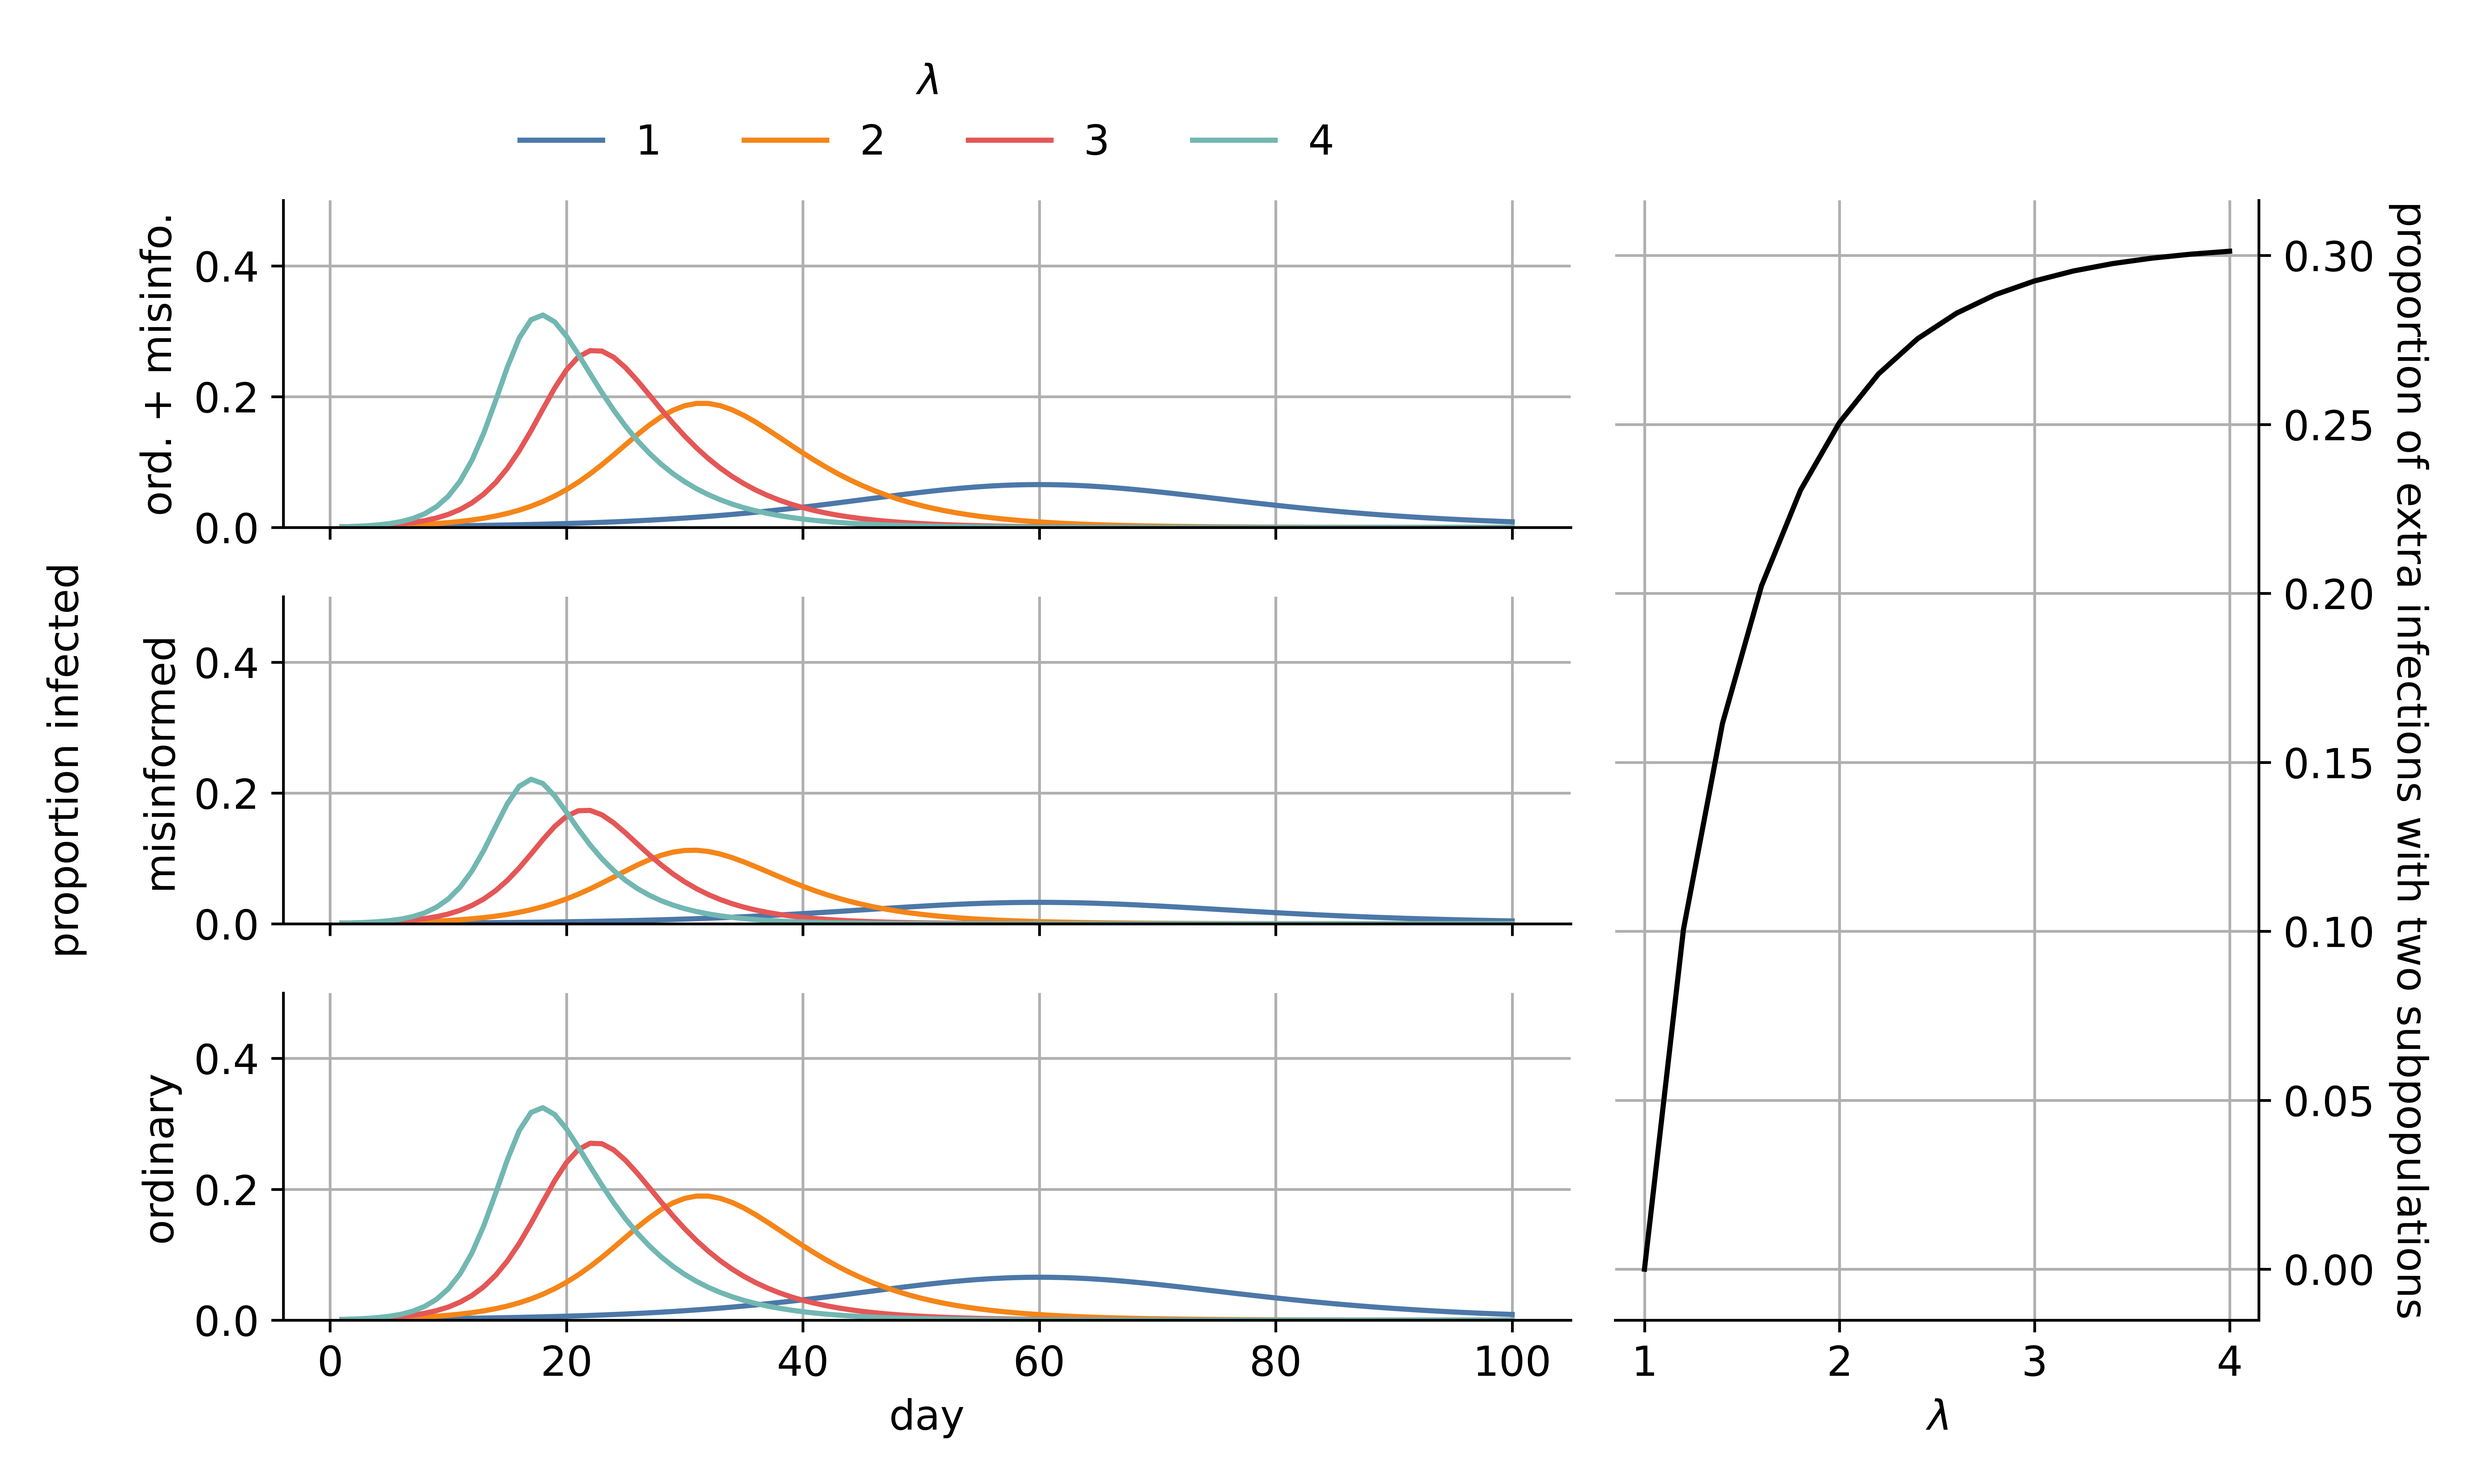
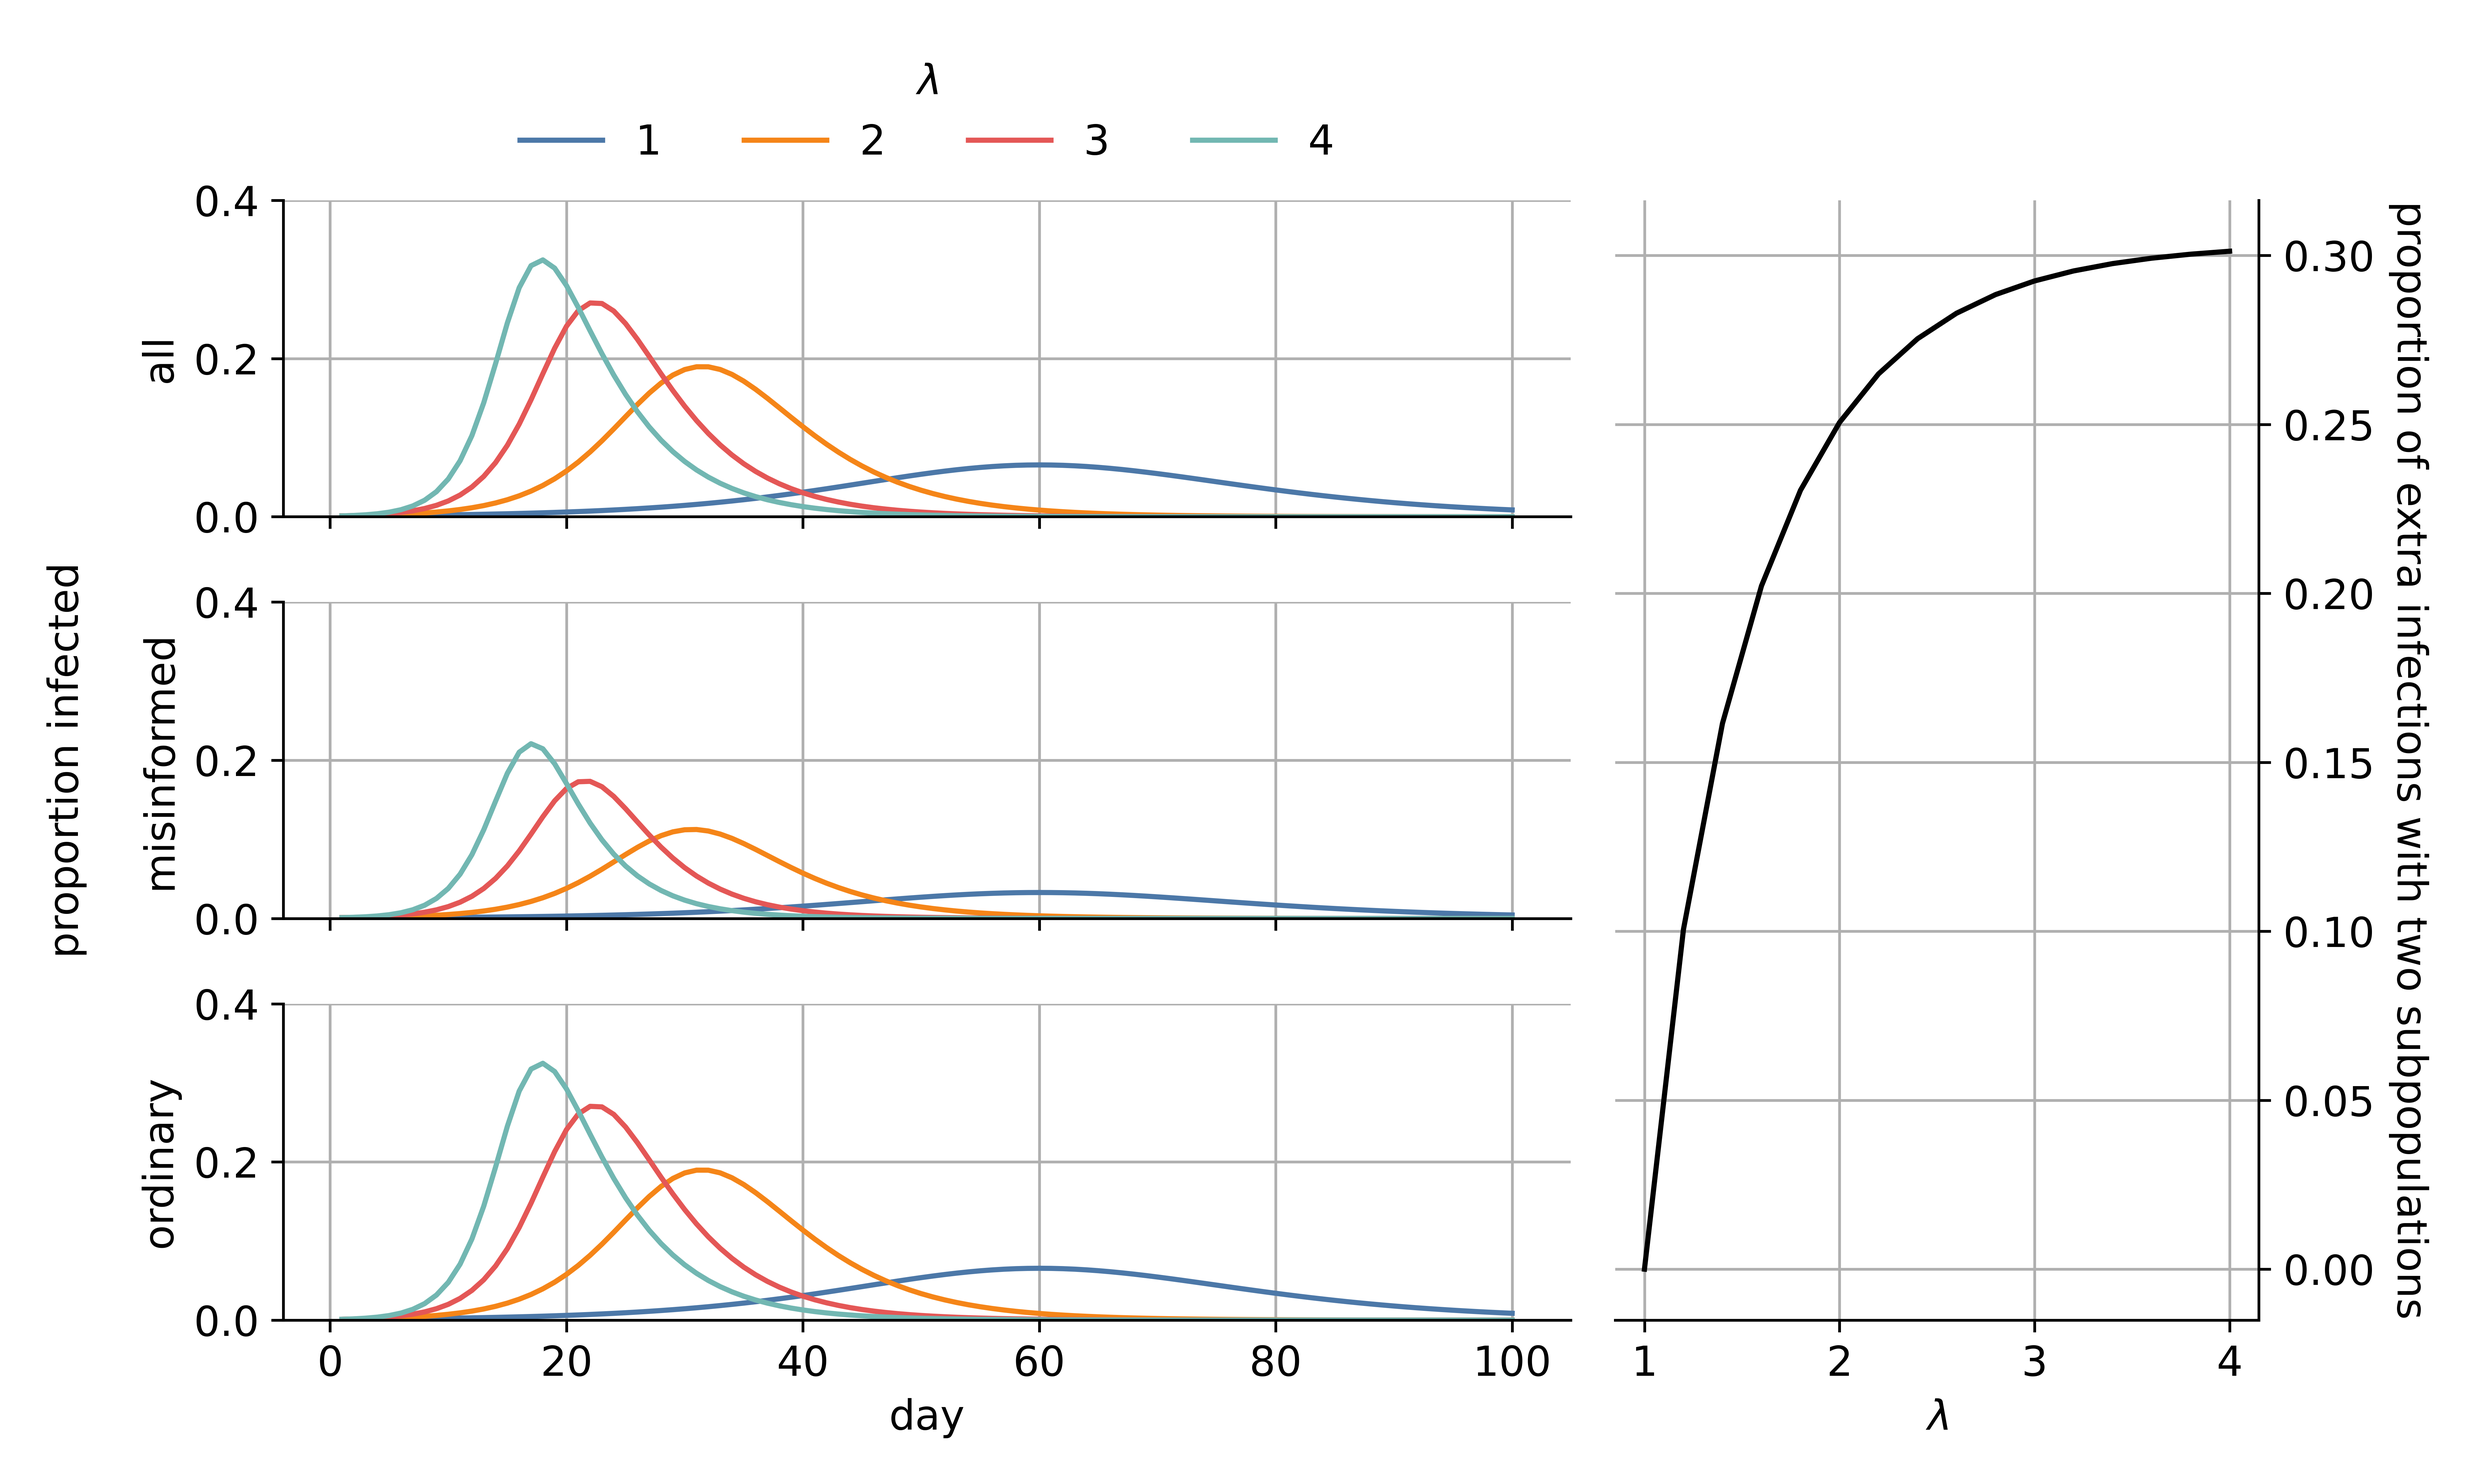
change ylabel name to `all` and fix ylims

diff --git a/figures_generation/generate_lambda_figure.py b/figures_generation/generate_lambda_figure.py
@@ -73,9 +73,9 @@ for mult in less_ord["lambda"].unique():
 
 
 # Set the y-axis limits for the first column
-ax1.set_ylim(0, 0.5)
-ax2.set_ylim(0, 0.5)
-ax3.set_ylim(0, 0.5)
+ax1.set_ylim(0, 0.4)
+ax2.set_ylim(0, 0.4)
+ax3.set_ylim(0, 0.4)
 
 # Share y-axis limits for the first column
 ax2.sharey(ax1)
@@ -127,7 +127,7 @@ ax4.spines["left"].set_visible(False)
 ax4.spines["top"].set_visible(False)
 
 # Set labels for each subplot
-ax1.set_ylabel("ord. + misinfo.")
+ax1.set_ylabel("all")
 ax2.set_ylabel("proportion infected\n\nmisinformed")
 ax3.set_ylabel("ordinary")
 ax3.set_xlabel("day")
